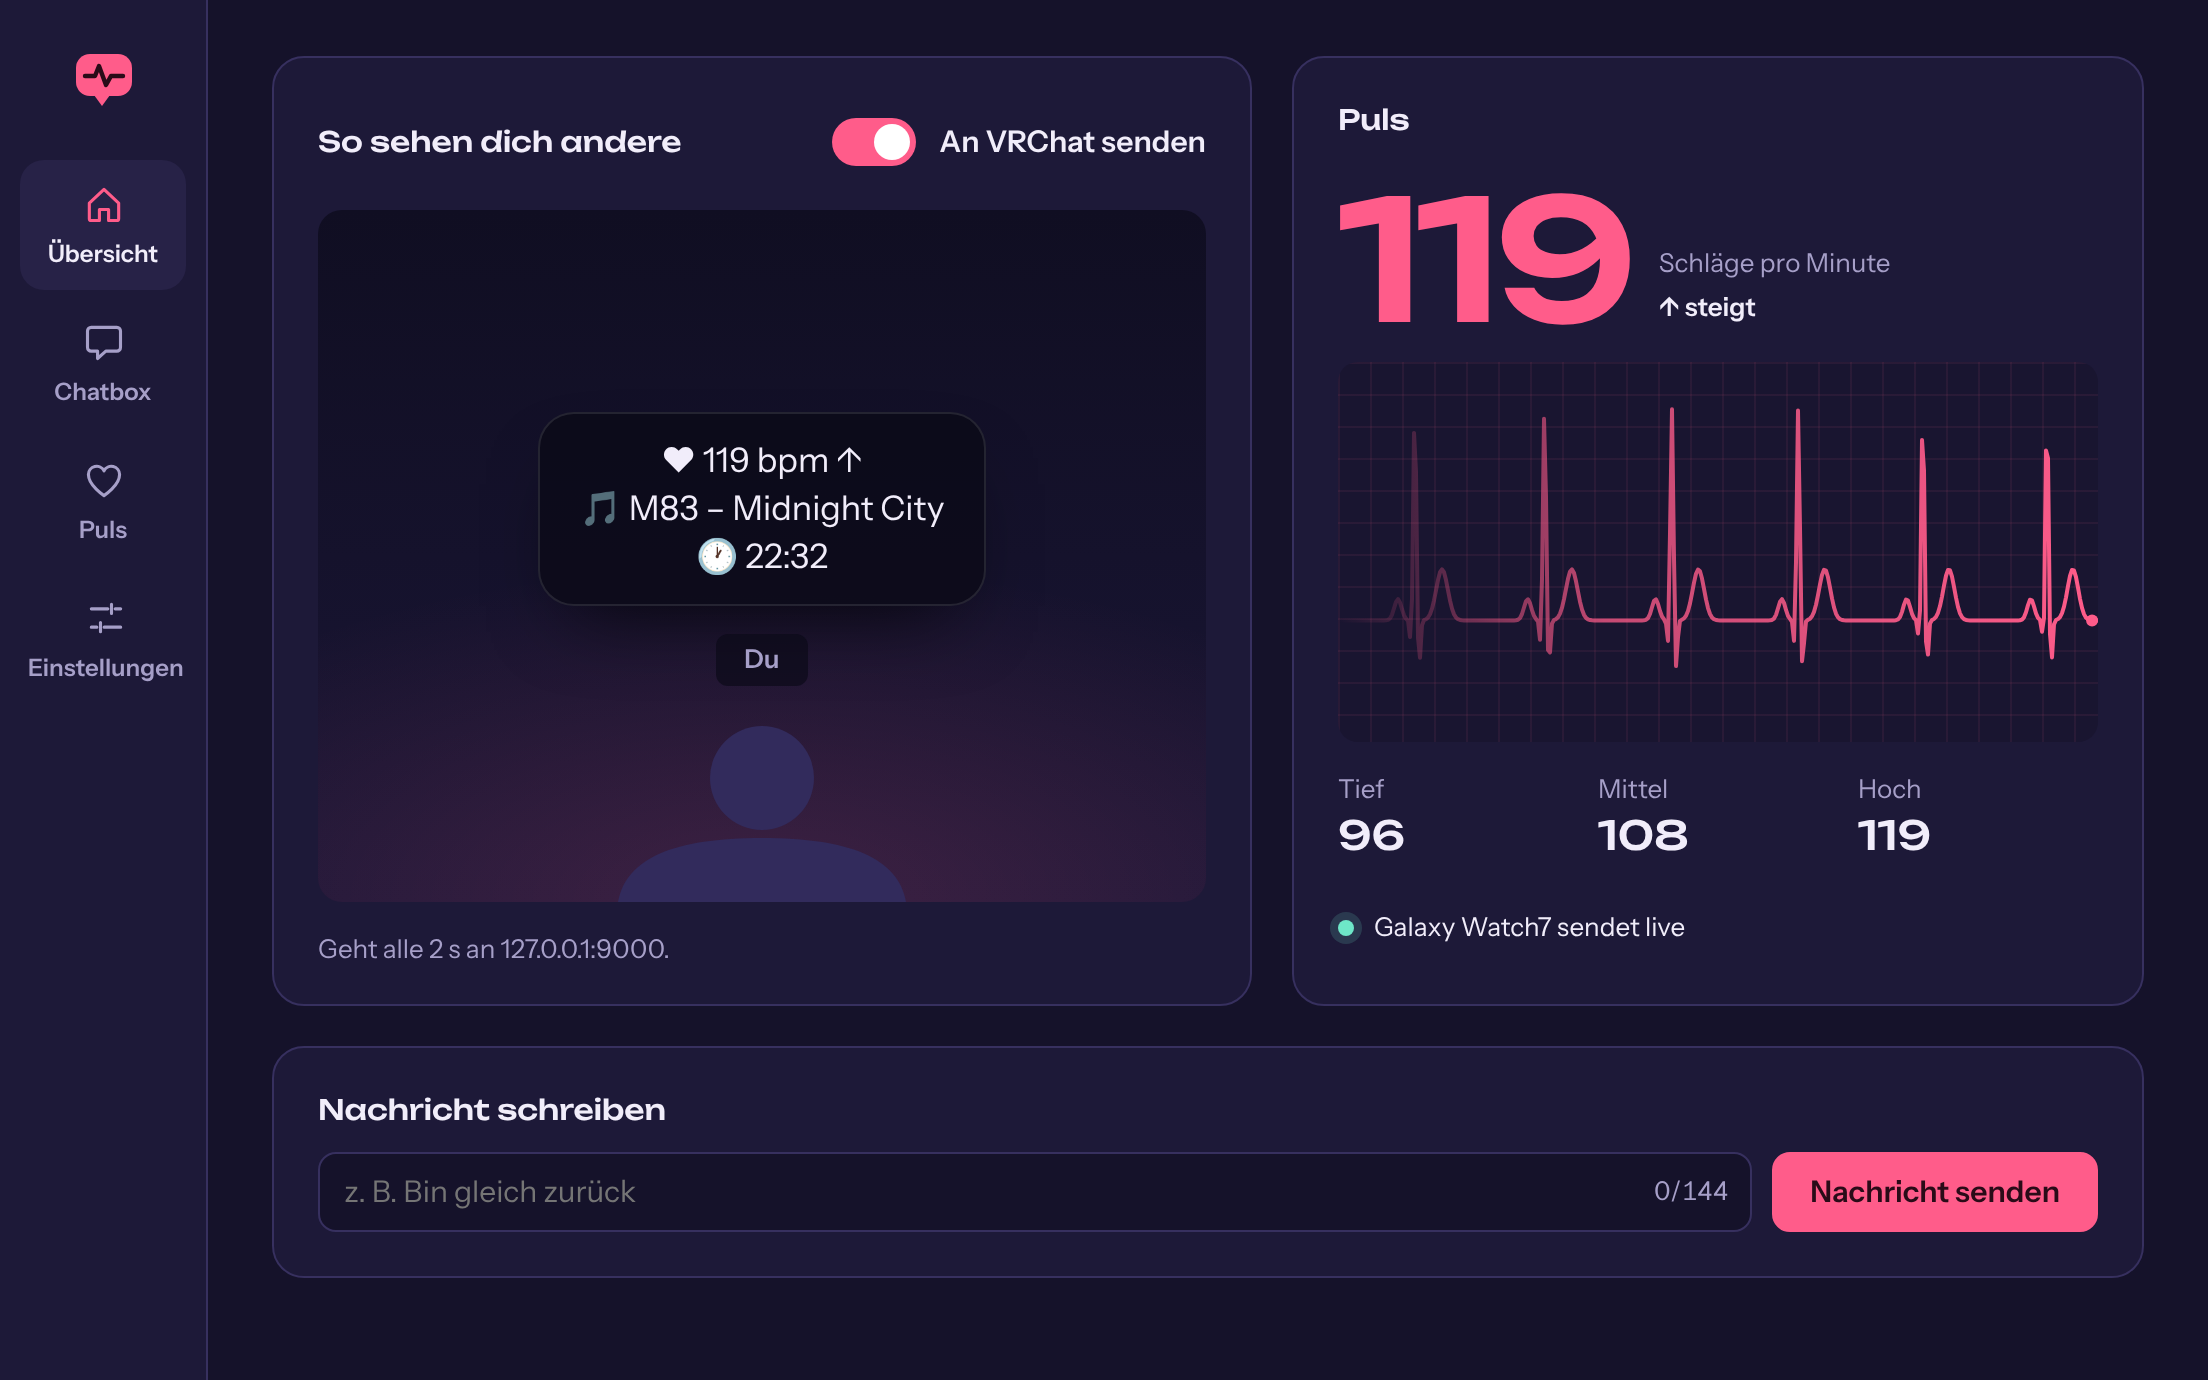
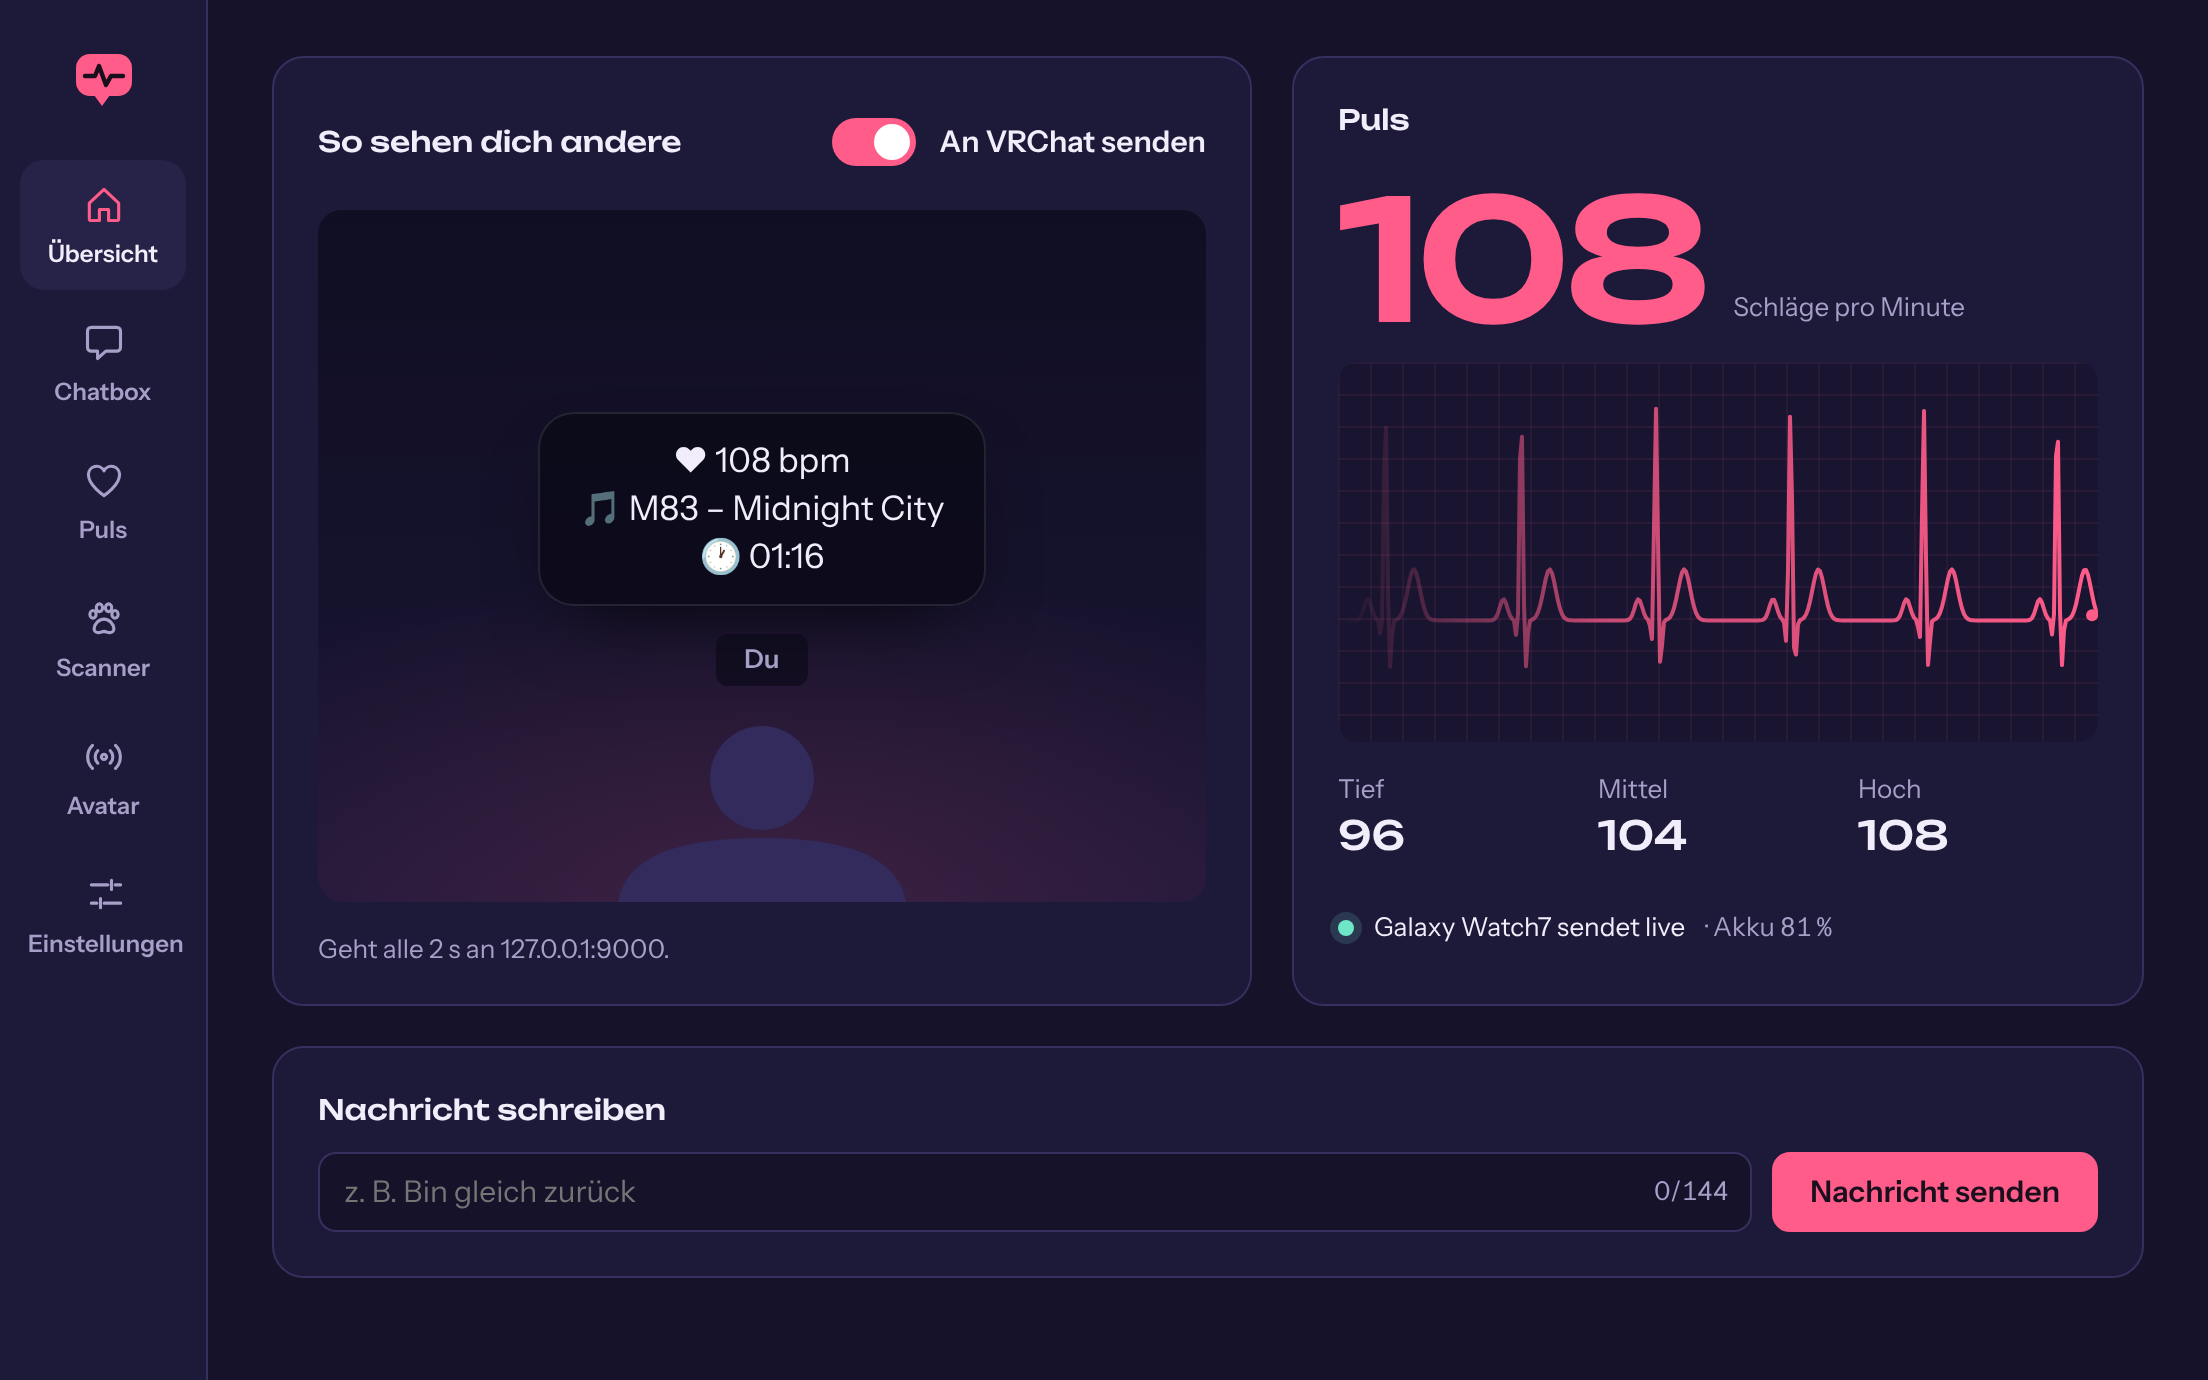
Update README texts and screenshot for the new features and Linux
Claude-Session: https://claude.ai/code/session_01FidxUGwvxwr9VhuaWje4Ho

diff --git a/README.md b/README.md
@@ -1,11 +1,15 @@
 # OSC Tool VRC
 
-Open-Source-Tool für die VRChat-Chatbox: zeigt deinen Live-Puls von der Galaxy
-Watch, die laufende Musik, Uhrzeit und eigene Nachrichten über deinem Avatar.
-Läuft als Programm unter Windows 10 und 11 sowie unter Linux.
+Open-Source-Tool für die VRChat-Chatbox: zeigt deinen Live-Puls von deiner
+Wear-OS-Uhr (z. B. Galaxy Watch), die laufende Musik samt Songtext, Uhrzeit und
+eigene Nachrichten über deinem Avatar. Dazu ein Furry-Scanner zum Spaß,
+Avatar-Parameter per Klick und ein OSC-Monitor. Läuft unter Windows 10 und 11
+sowie unter Linux.
 
-*Open source OSC tool for the VRChat chatbox with live heart rate from a Wear OS
-watch. The app itself is available in German and English.*
+*Open source OSC tool for VRChat on Windows and Linux: live heart rate from a
+Wear OS watch, music with synced lyrics, custom messages, a just-for-fun furry
+scanner, avatar parameters and an OSC monitor. The app itself is available in
+German and English.*
 
 ![Übersicht der App](docs/screenshot.png)
 
@@ -93,7 +97,8 @@ Die App gibt es nicht im Play Store; sie wird einmalig per ADB installiert.
 
 1. Auf der Uhr: **Einstellungen → Info zur Uhr → Softwareinformationen**, dort
    siebenmal auf **Softwareversion** tippen. Das schaltet die
-   Entwickleroptionen frei.
+   Entwickleroptionen frei. Auf anderen Wear-OS-Uhren (Pixel Watch, …) heißt
+   es meist **Einstellungen → System → Info** und **Build-Nummer**.
 2. **Einstellungen → Entwickleroptionen → ADB-Debugging** und
    **Drahtloses Debugging** einschalten (die Uhr muss im WLAN sein).
 3. In **Drahtloses Debugging** auf **Neues Gerät koppeln** tippen. Die Uhr
